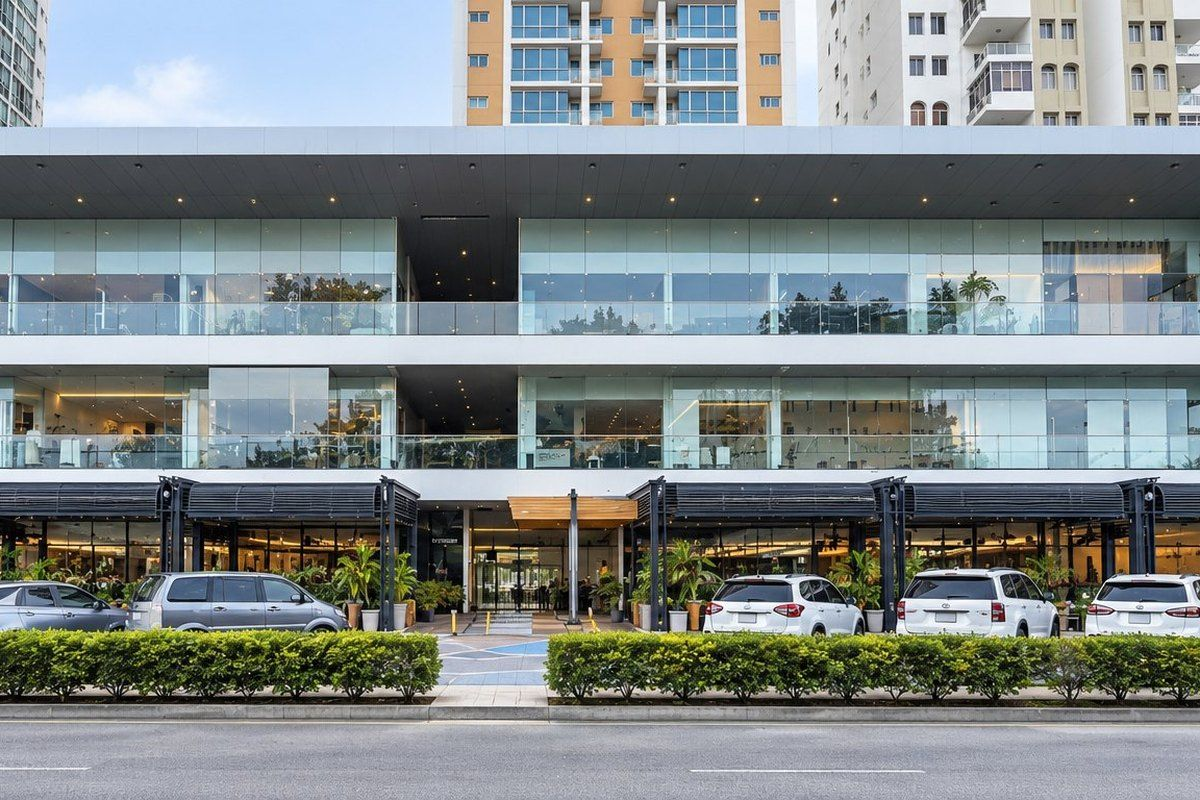
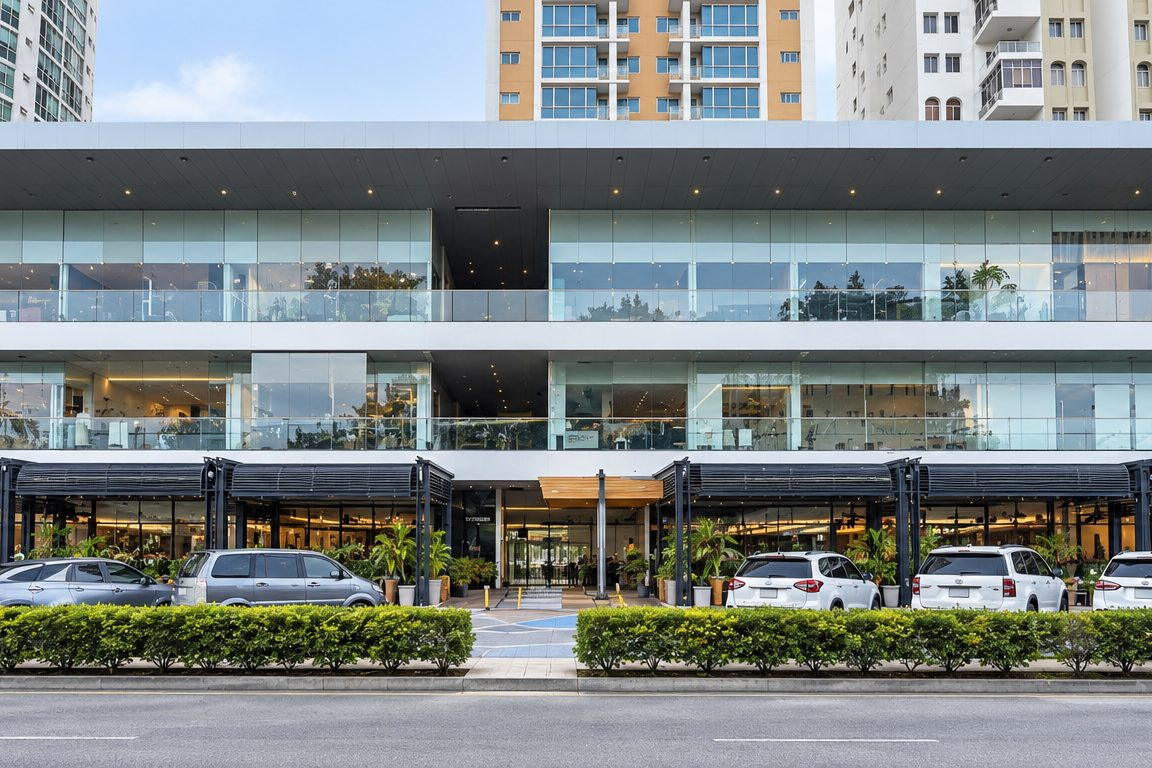
Fotos elegidas: destacada de Criterio, Local 22 y 23, tarjeta 3:2 y Relocation vuelve a navy
Aplicada la lista del 9-nov. Los originales no se tocaron: cada derivado sale
de un recorte con caja exacta y WebP a calidad 82, la que manda el documento
rev.15.

- 01-zona -> ninguna. El hero de /relocation/ vuelve a NAVY PLENO, sin foto,
  a la misma altura que el hero de Contacto (60vh). Sale la provisional de La
  Peatonal y con ella su precarga. El modulo 04 del inicio se queda en navy.
  La foto de zona -calle arbolada a nivel de ojo, San Francisco o Costa del
  Este- queda como lo unico pendiente de sesion en todo el sitio.
- 02-destacada -> 06, 04_esquina-volumen-completo. Recorte bajado (y=560 de
  3072) para que el volumen quede centrado y salgan las torres del fondo.
  1080x608, 182 KB. Tono medio del contenedor remedido: #7B7C7B.
- 03-retrato -> sin tocar. Ver la nota de abajo.
- 04-fachada -> 04, la MASTER idealizada. El 16:9 del hero se mantiene; de ahi
  sale ahora tambien el 3:2 de la tarjeta del inicio, 1152x768 y 157 KB.
- 05-local-22 -> IMG_8404 principal (espacio completo desde la entrada, con el
  ventanal al fondo) e IMG_8405 segunda (la luz del ventanal); la de hoy pasa
  a tercera. La meta de la ficha dice «3 fotografias» / «3 photographs».
  foto-31 sale de la galeria. IMG_8406 y 8407 no entran.
- 06-local-23 -> ninguna de interior. Vitrina: IMG_7756 recortada a 3:2
  dejando la vitrina a la izquierda. El primer intento (y=1250, ancho 2661)
  quitaba «ROCKAHOLIC» pero dejaba media palabra de «Strada Eleganza» en la
[…]

diff --git a/peatonal68/en/index.html b/peatonal68/en/index.html
@@ -289,13 +289,13 @@ body>footer.sf{padding-top:48px}
 
     <article class="card u" id="local-22" data-u="22" data-floor="2" data-area="100">
       <button class="ushot ph ph--32" data-gal="l22" data-loc="22" aria-label="See the photographs of Unit 22">
-        <img src="../img/local-22a.jpg" width="1100" height="825" alt="Unit 22: open floor plan with wood flooring and a marble band" loading="lazy">
+        <img src="../img/local-22-espacio.jpg" width="1600" height="1067" alt="Unit 22: the full space from the entrance, with the window at the back" loading="lazy">
       </button>
       <div class="card-row">
         <h3>Unit 22</h3>
         <span class="card-fig">100 m²</span>
       </div>
-      <p class="card-meta">Second floor · Open plan · 1 bathroom · 2 photographs</p>
+      <p class="card-meta">Second floor · Open plan · 1 bathroom · 3 photographs</p>
       <div class="frow" style="margin-top:24px">
         <span style="color:var(--muted);font-size:15px">Monthly base rent</span>
         <span class="cifra">$1,800</span>
@@ -318,7 +318,7 @@ body>footer.sf{padding-top:48px}
 
     <article class="card u u23" id="local-23" data-u="23" data-floor="2" data-area="100">
       <button class="ushot ph ph--32" data-gal="l23" data-loc="23" aria-label="See the photograph of Unit 23">
-        <img src="../img/local-23-vitrina-desde-el-pasillo.jpg" width="1100" height="825" alt="Unit 23: storefront seen from the second-floor corridor" loading="lazy">
+        <img src="../img/local-23-vitrina.jpg" width="1600" height="1067" alt="Unit 23: storefront seen from the second-floor corridor" loading="lazy">
       </button>
       <div class="card-row">
         <h3>Unit 23</h3>
@@ -502,9 +502,10 @@ body>footer.sf{padding-top:48px}
     l4:[{src:'../img/local-04-salon.jpg',cap:"The restaurant's dining room as it is today"},
         {src:'../img/local-04-terraza.jpg',cap:'Exclusive-use terrace'},
         {src:'../img/local-04-noche.jpg',cap:'The terrace at night'}],
-    l22:[{src:'../img/local-22a.jpg',cap:'Open floor plan with wood flooring and a marble band'},
-         {src:'../img/foto-31.jpg',cap:'Second angle of the main area'}],
-    l23:[{src:'../img/local-23-vitrina-desde-el-pasillo.jpg',cap:'Storefront from the second-floor corridor'}]
+    l22:[{src:'../img/local-22-espacio.jpg',cap:'The full space from the entrance, with the window at the back'},
+         {src:'../img/local-22-ventanal.jpg',cap:'The light from the window'},
+         {src:'../img/local-22a.jpg',cap:'Open floor plan with wood flooring and a marble band'}],
+    l23:[{src:'../img/local-23-vitrina.jpg',cap:'Storefront from the second-floor corridor'}]
   };
   var lb=document.getElementById('lb'),im=document.getElementById('lbI'),
       cp=document.getElementById('lbC'),de=document.getElementById('lbD'),

diff --git a/peatonal68/index.html b/peatonal68/index.html
@@ -289,13 +289,13 @@ body>footer.sf{padding-top:48px}
 
     <article class="card u" id="local-22" data-u="22" data-floor="2" data-area="100">
       <button class="ushot ph ph--32" data-gal="l22" data-loc="22" aria-label="Ver las fotografías del Local 22">
-        <img src="img/local-22a.jpg" width="1100" height="825" alt="Local 22: planta abierta con piso de madera y banda de mármol" loading="lazy">
+        <img src="img/local-22-espacio.jpg" width="1600" height="1067" alt="Local 22: el espacio completo desde la entrada, con el ventanal al fondo" loading="lazy">
       </button>
       <div class="card-row">
         <h3>Local 22</h3>
         <span class="card-fig">100 m²</span>
       </div>
-      <p class="card-meta">Segundo piso · Planta abierta · 1 baño · 2 fotografías</p>
+      <p class="card-meta">Segundo piso · Planta abierta · 1 baño · 3 fotografías</p>
       <div class="frow" style="margin-top:24px">
         <span style="color:var(--muted);font-size:15px">Canon mensual</span>
         <span class="cifra">$1,800</span>
@@ -318,7 +318,7 @@ body>footer.sf{padding-top:48px}
 
     <article class="card u u23" id="local-23" data-u="23" data-floor="2" data-area="100">
       <button class="ushot ph ph--32" data-gal="l23" data-loc="23" aria-label="Ver la fotografía del Local 23">
-        <img src="img/local-23-vitrina-desde-el-pasillo.jpg" width="1100" height="825" alt="Local 23: vitrina desde el pasillo del segundo piso" loading="lazy">
+        <img src="img/local-23-vitrina.jpg" width="1600" height="1067" alt="Local 23: vitrina desde el pasillo del segundo piso" loading="lazy">
       </button>
       <div class="card-row">
         <h3>Local 23</h3>
@@ -502,9 +502,10 @@ body>footer.sf{padding-top:48px}
     l4:[{src:'img/local-04-salon.jpg',cap:'Salón del restaurante que opera hoy'},
         {src:'img/local-04-terraza.jpg',cap:'Terraza de uso exclusivo'},
         {src:'img/local-04-noche.jpg',cap:'La terraza, de noche'}],
-    l22:[{src:'img/local-22a.jpg',cap:'Planta abierta con piso de madera y banda de mármol'},
-         {src:'img/foto-31.jpg',cap:'Segundo ángulo del área principal'}],
-    l23:[{src:'img/local-23-vitrina-desde-el-pasillo.jpg',cap:'Vitrina desde el pasillo del segundo piso'}]
+    l22:[{src:'img/local-22-espacio.jpg',cap:'Espacio completo desde la entrada, con el ventanal al fondo'},
+         {src:'img/local-22-ventanal.jpg',cap:'La luz del ventanal'},
+         {src:'img/local-22a.jpg',cap:'Planta abierta con piso de madera y banda de mármol'}],
+    l23:[{src:'img/local-23-vitrina.jpg',cap:'Vitrina desde el pasillo del segundo piso'}]
   };
   var lb=document.getElementById('lb'),im=document.getElementById('lbI'),
       cp=document.getElementById('lbC'),de=document.getElementById('lbD'),

diff --git a/relocation/index.html b/relocation/index.html
@@ -25,7 +25,6 @@
 <link rel="stylesheet" href="https://fonts.googleapis.com/css2?family=Newsreader:ital,opsz,wght@0,6..72,300;0,6..72,500;1,6..72,300&family=Hanken+Grotesk:wght@300;500&display=swap">
 <link rel="preload" as="font" type="font/woff2" href="/fonts/hanken.woff2" crossorigin>
 <link rel="preload" as="font" type="font/woff2" href="/fonts/newsreader.woff2" crossorigin>
-<link rel="preload" as="image" href="/peatonal68/img/planta-baja-restaurantes-y-acceso.webp" type="image/webp" fetchpriority="high">
 <link rel="stylesheet" href="/css/spotone.css?v=6">
 <style>
 @font-face{font-family:'Newsreader';src:url(/fonts/newsreader.woff2) format('woff2');font-weight:300 500;font-style:normal;font-display:swap}
@@ -56,6 +55,14 @@ h1,h2,h3,.cifra,.stat,.card-fig,.num{font-family:'Newsreader',Georgia,serif}
 /* hero con fotografia de zona: el indice sobre la foto va en Sky, como en
    toda banda oscura. El overlay y la altura los pone .hero del sistema. */
 .hero--zona .idx{color:var(--sky)}
+/* Relocation: navy pleno, sin foto, a la misma altura que el hero de Contacto.
+   La foto de zona que pide el documento sigue sin existir y la provisional de
+   La Peatonal se retiro el 9-nov: decia «La Peatonal otra vez», no «mudarte a
+   Panama». */
+.hero--60{min-height:60vh;justify-content:center}
+.hero--60>.wrap{padding-top:120px;padding-bottom:96px}
+@media(max-width:860px){.hero--60{min-height:0}
+  .hero--60>.wrap{padding-top:var(--band);padding-bottom:56px}}
 
 /* --- la pagina de contacto: hero a 60 % de alto y los cuatro datos en dos
        columnas a la derecha (instruccion del 8-nov) --- */
@@ -115,11 +122,7 @@ h1,h2,h3,.cifra,.stat,.card-fig,.num{font-family:'Newsreader',Georgia,serif}
 </div>
 
 <main id="main">
-<header class="hero hero--zona">
-  <span class="ph"><picture>
-    <source srcset="/peatonal68/img/planta-baja-restaurantes-y-acceso.webp" type="image/webp">
-    <img src="/peatonal68/img/planta-baja-restaurantes-y-acceso.jpg" width="1600" height="1200" alt="Planta baja de Plaza La Peatonal 68: los toldos de los restaurantes sobre la acera, el estacionamiento y el paso peatonal de la entrada" fetchpriority="high" decoding="async">
-  </picture></span>
+<header class="hero hero--navy hero--60">
   <div class="wrap sec-head">
     <p class="idx">Relocation</p>
     <h1>Mudarte a Panamá.</h1>

diff --git a/relocation/en/index.html b/relocation/en/index.html
@@ -25,7 +25,6 @@
 <link rel="stylesheet" href="https://fonts.googleapis.com/css2?family=Newsreader:ital,opsz,wght@0,6..72,300;0,6..72,500;1,6..72,300&family=Hanken+Grotesk:wght@300;500&display=swap">
 <link rel="preload" as="font" type="font/woff2" href="/fonts/hanken.woff2" crossorigin>
 <link rel="preload" as="font" type="font/woff2" href="/fonts/newsreader.woff2" crossorigin>
-<link rel="preload" as="image" href="/peatonal68/img/planta-baja-restaurantes-y-acceso.webp" type="image/webp" fetchpriority="high">
 <link rel="stylesheet" href="/css/spotone.css?v=6">
 <style>
 @font-face{font-family:'Newsreader';src:url(/fonts/newsreader.woff2) format('woff2');font-weight:300 500;font-style:normal;font-display:swap}
@@ -56,6 +55,14 @@ h1,h2,h3,.cifra,.stat,.card-fig,.num{font-family:'Newsreader',Georgia,serif}
 /* hero con fotografia de zona: el indice sobre la foto va en Sky, como en
    toda banda oscura. El overlay y la altura los pone .hero del sistema. */
 .hero--zona .idx{color:var(--sky)}
+/* Relocation: navy pleno, sin foto, a la misma altura que el hero de Contacto.
+   La foto de zona que pide el documento sigue sin existir y la provisional de
+   La Peatonal se retiro el 9-nov: decia «La Peatonal otra vez», no «mudarte a
+   Panama». */
+.hero--60{min-height:60vh;justify-content:center}
+.hero--60>.wrap{padding-top:120px;padding-bottom:96px}
+@media(max-width:860px){.hero--60{min-height:0}
+  .hero--60>.wrap{padding-top:var(--band);padding-bottom:56px}}
 
 /* --- la pagina de contacto: hero a 60 % de alto y los cuatro datos en dos
        columnas a la derecha (instruccion del 8-nov) --- */
@@ -115,11 +122,7 @@ h1,h2,h3,.cifra,.stat,.card-fig,.num{font-family:'Newsreader',Georgia,serif}
 </div>
 
 <main id="main">
-<header class="hero hero--zona">
-  <span class="ph"><picture>
-    <source srcset="/peatonal68/img/planta-baja-restaurantes-y-acceso.webp" type="image/webp">
-    <img src="/peatonal68/img/planta-baja-restaurantes-y-acceso.jpg" width="1600" height="1200" alt="Ground floor of Plaza La Peatonal 68: the restaurant awnings over the sidewalk, the parking and the pedestrian entrance" fetchpriority="high" decoding="async">
-  </picture></span>
+<header class="hero hero--navy hero--60">
   <div class="wrap sec-head">
     <p class="idx">Relocation</p>
     <h1>Moving to Panama.</h1>

diff --git a/404.html b/404.html
@@ -51,6 +51,14 @@ h1,h2,h3,.cifra,.stat,.card-fig,.num{font-family:'Newsreader',Georgia,serif}
 /* hero con fotografia de zona: el indice sobre la foto va en Sky, como en
    toda banda oscura. El overlay y la altura los pone .hero del sistema. */
 .hero--zona .idx{color:var(--sky)}
+/* Relocation: navy pleno, sin foto, a la misma altura que el hero de Contacto.
+   La foto de zona que pide el documento sigue sin existir y la provisional de
+   La Peatonal se retiro el 9-nov: decia «La Peatonal otra vez», no «mudarte a
+   Panama». */
+.hero--60{min-height:60vh;justify-content:center}
+.hero--60>.wrap{padding-top:120px;padding-bottom:96px}
+@media(max-width:860px){.hero--60{min-height:0}
+  .hero--60>.wrap{padding-top:var(--band);padding-bottom:56px}}
 
 /* --- la pagina de contacto: hero a 60 % de alto y los cuatro datos en dos
        columnas a la derecha (instruccion del 8-nov) --- */

diff --git a/contact/index.html b/contact/index.html
@@ -55,6 +55,14 @@ h1,h2,h3,.cifra,.stat,.card-fig,.num{font-family:'Newsreader',Georgia,serif}
 /* hero con fotografia de zona: el indice sobre la foto va en Sky, como en
    toda banda oscura. El overlay y la altura los pone .hero del sistema. */
 .hero--zona .idx{color:var(--sky)}
+/* Relocation: navy pleno, sin foto, a la misma altura que el hero de Contacto.
+   La foto de zona que pide el documento sigue sin existir y la provisional de
+   La Peatonal se retiro el 9-nov: decia «La Peatonal otra vez», no «mudarte a
+   Panama». */
+.hero--60{min-height:60vh;justify-content:center}
+.hero--60>.wrap{padding-top:120px;padding-bottom:96px}
+@media(max-width:860px){.hero--60{min-height:0}
+  .hero--60>.wrap{padding-top:var(--band);padding-bottom:56px}}
 
 /* --- la pagina de contacto: hero a 60 % de alto y los cuatro datos en dos
        columnas a la derecha (instruccion del 8-nov) --- */

diff --git a/contacto/index.html b/contacto/index.html
@@ -55,6 +55,14 @@ h1,h2,h3,.cifra,.stat,.card-fig,.num{font-family:'Newsreader',Georgia,serif}
 /* hero con fotografia de zona: el indice sobre la foto va en Sky, como en
    toda banda oscura. El overlay y la altura los pone .hero del sistema. */
 .hero--zona .idx{color:var(--sky)}
+/* Relocation: navy pleno, sin foto, a la misma altura que el hero de Contacto.
+   La foto de zona que pide el documento sigue sin existir y la provisional de
+   La Peatonal se retiro el 9-nov: decia «La Peatonal otra vez», no «mudarte a
+   Panama». */
+.hero--60{min-height:60vh;justify-content:center}
+.hero--60>.wrap{padding-top:120px;padding-bottom:96px}
+@media(max-width:860px){.hero--60{min-height:0}
+  .hero--60>.wrap{padding-top:var(--band);padding-bottom:56px}}
 
 /* --- la pagina de contacto: hero a 60 % de alto y los cuatro datos en dos
        columnas a la derecha (instruccion del 8-nov) --- */

diff --git a/dario/en/index.html b/dario/en/index.html
@@ -55,6 +55,14 @@ h1,h2,h3,.cifra,.stat,.card-fig,.num{font-family:'Newsreader',Georgia,serif}
 /* hero con fotografia de zona: el indice sobre la foto va en Sky, como en
    toda banda oscura. El overlay y la altura los pone .hero del sistema. */
 .hero--zona .idx{color:var(--sky)}
+/* Relocation: navy pleno, sin foto, a la misma altura que el hero de Contacto.
+   La foto de zona que pide el documento sigue sin existir y la provisional de
+   La Peatonal se retiro el 9-nov: decia «La Peatonal otra vez», no «mudarte a
+   Panama». */
+.hero--60{min-height:60vh;justify-content:center}
+.hero--60>.wrap{padding-top:120px;padding-bottom:96px}
+@media(max-width:860px){.hero--60{min-height:0}
+  .hero--60>.wrap{padding-top:var(--band);padding-bottom:56px}}
 
 /* --- la pagina de contacto: hero a 60 % de alto y los cuatro datos en dos
        columnas a la derecha (instruccion del 8-nov) --- */

diff --git a/dario/index.html b/dario/index.html
@@ -55,6 +55,14 @@ h1,h2,h3,.cifra,.stat,.card-fig,.num{font-family:'Newsreader',Georgia,serif}
 /* hero con fotografia de zona: el indice sobre la foto va en Sky, como en
    toda banda oscura. El overlay y la altura los pone .hero del sistema. */
 .hero--zona .idx{color:var(--sky)}
+/* Relocation: navy pleno, sin foto, a la misma altura que el hero de Contacto.
+   La foto de zona que pide el documento sigue sin existir y la provisional de
+   La Peatonal se retiro el 9-nov: decia «La Peatonal otra vez», no «mudarte a
+   Panama». */
+.hero--60{min-height:60vh;justify-content:center}
+.hero--60>.wrap{padding-top:120px;padding-bottom:96px}
+@media(max-width:860px){.hero--60{min-height:0}
+  .hero--60>.wrap{padding-top:var(--band);padding-bottom:56px}}
 
 /* --- la pagina de contacto: hero a 60 % de alto y los cuatro datos en dos
        columnas a la derecha (instruccion del 8-nov) --- */

diff --git a/que-hago/index.html b/que-hago/index.html
@@ -55,6 +55,14 @@ h1,h2,h3,.cifra,.stat,.card-fig,.num{font-family:'Newsreader',Georgia,serif}
 /* hero con fotografia de zona: el indice sobre la foto va en Sky, como en
    toda banda oscura. El overlay y la altura los pone .hero del sistema. */
 .hero--zona .idx{color:var(--sky)}
+/* Relocation: navy pleno, sin foto, a la misma altura que el hero de Contacto.
+   La foto de zona que pide el documento sigue sin existir y la provisional de
+   La Peatonal se retiro el 9-nov: decia «La Peatonal otra vez», no «mudarte a
+   Panama». */
+.hero--60{min-height:60vh;justify-content:center}
+.hero--60>.wrap{padding-top:120px;padding-bottom:96px}
+@media(max-width:860px){.hero--60{min-height:0}
+  .hero--60>.wrap{padding-top:var(--band);padding-bottom:56px}}
 
 /* --- la pagina de contacto: hero a 60 % de alto y los cuatro datos en dos
        columnas a la derecha (instruccion del 8-nov) --- */

diff --git a/services/index.html b/services/index.html
@@ -55,6 +55,14 @@ h1,h2,h3,.cifra,.stat,.card-fig,.num{font-family:'Newsreader',Georgia,serif}
 /* hero con fotografia de zona: el indice sobre la foto va en Sky, como en
    toda banda oscura. El overlay y la altura los pone .hero del sistema. */
 .hero--zona .idx{color:var(--sky)}
+/* Relocation: navy pleno, sin foto, a la misma altura que el hero de Contacto.
+   La foto de zona que pide el documento sigue sin existir y la provisional de
+   La Peatonal se retiro el 9-nov: decia «La Peatonal otra vez», no «mudarte a
+   Panama». */
+.hero--60{min-height:60vh;justify-content:center}
+.hero--60>.wrap{padding-top:120px;padding-bottom:96px}
+@media(max-width:860px){.hero--60{min-height:0}
+  .hero--60>.wrap{padding-top:var(--band);padding-bottom:56px}}
 
 /* --- la pagina de contacto: hero a 60 % de alto y los cuatro datos en dos
        columnas a la derecha (instruccion del 8-nov) --- */

diff --git a/index-en.html b/index-en.html
@@ -114,7 +114,7 @@ h1,h2,h3,.cifra,.stat,.card-fig,.num{font-family:'Newsreader',Georgia,serif}
       <a class="card" href="/peatonal68/en/">
         <span class="ph ph--32"><picture>
           <source srcset="/images/fachada-peatonal-32.webp" type="image/webp">
-          <img src="/images/fachada-peatonal-32.jpg" width="1200" height="800" alt="Facade of Plaza La Peatonal 68 in daylight, Calle 68 Este, San Francisco" loading="lazy" decoding="async">
+          <img src="/images/fachada-peatonal-32.jpg" width="1152" height="768" alt="Facade of Plaza La Peatonal 68 in daylight, Calle 68 Este, San Francisco" loading="lazy" decoding="async">
         </picture></span>
         <div class="card-row"><h3>Plaza La Peatonal 68</h3><span class="card-fig"><small>From</small> $1,800</span></div>
         <p class="card-meta">San Francisco · Three units · 100–102 m²</p>
